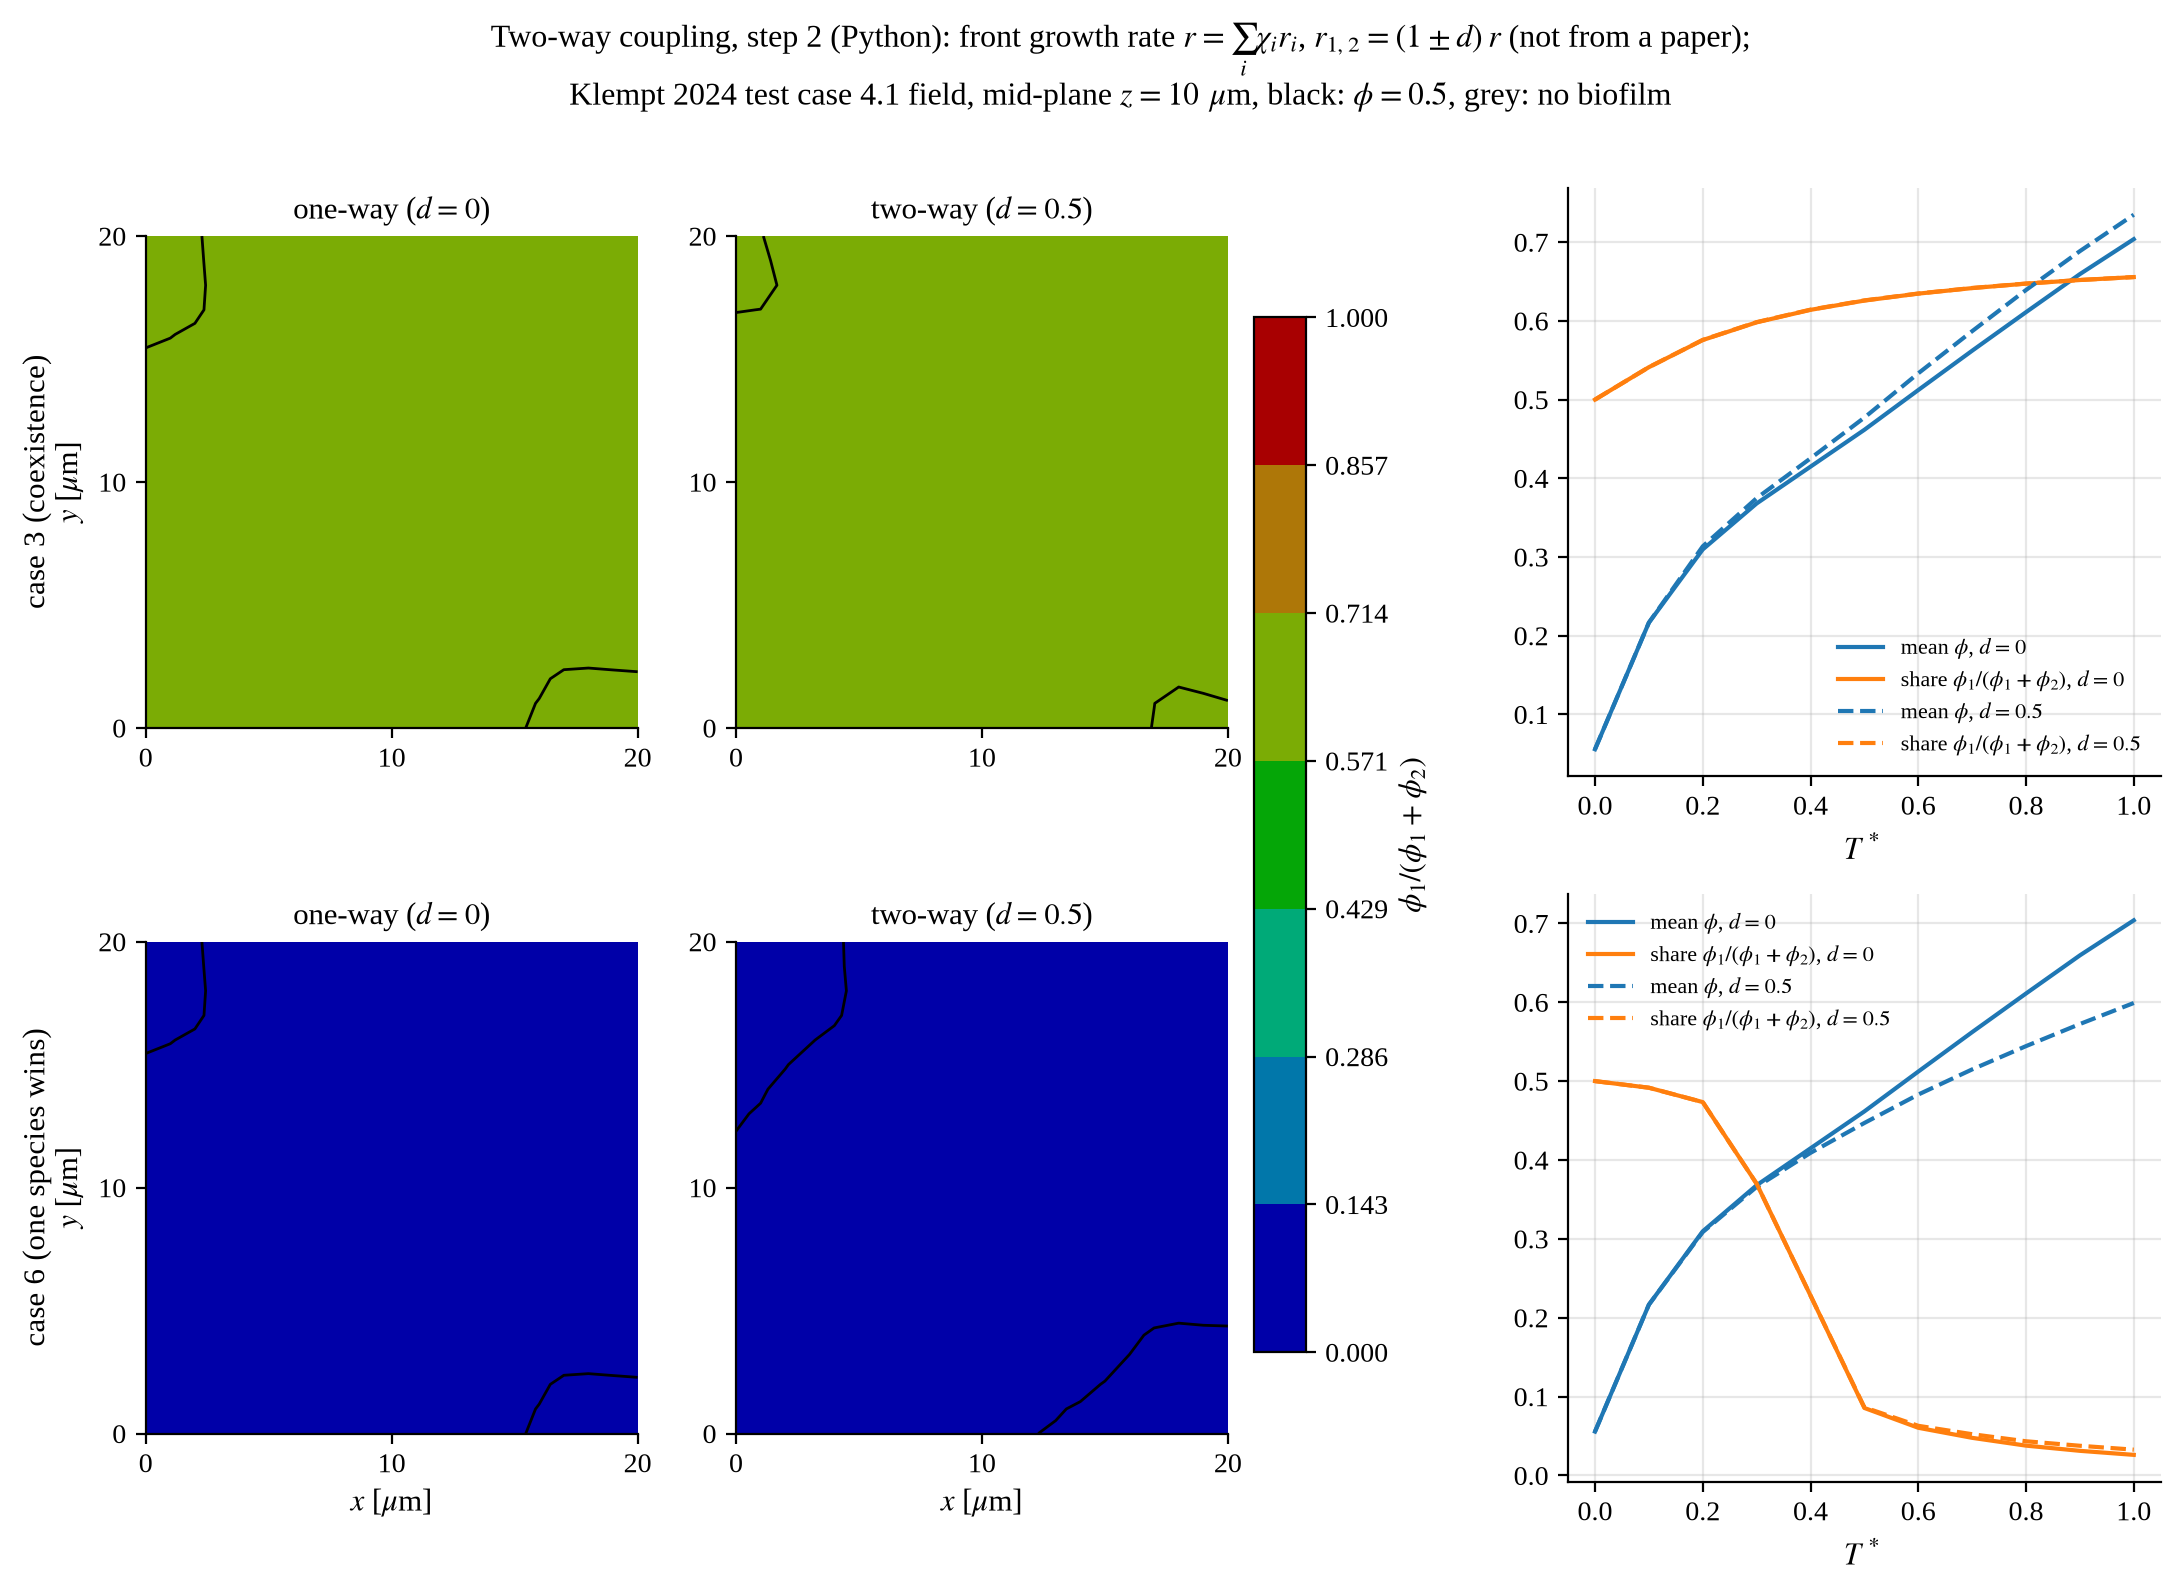
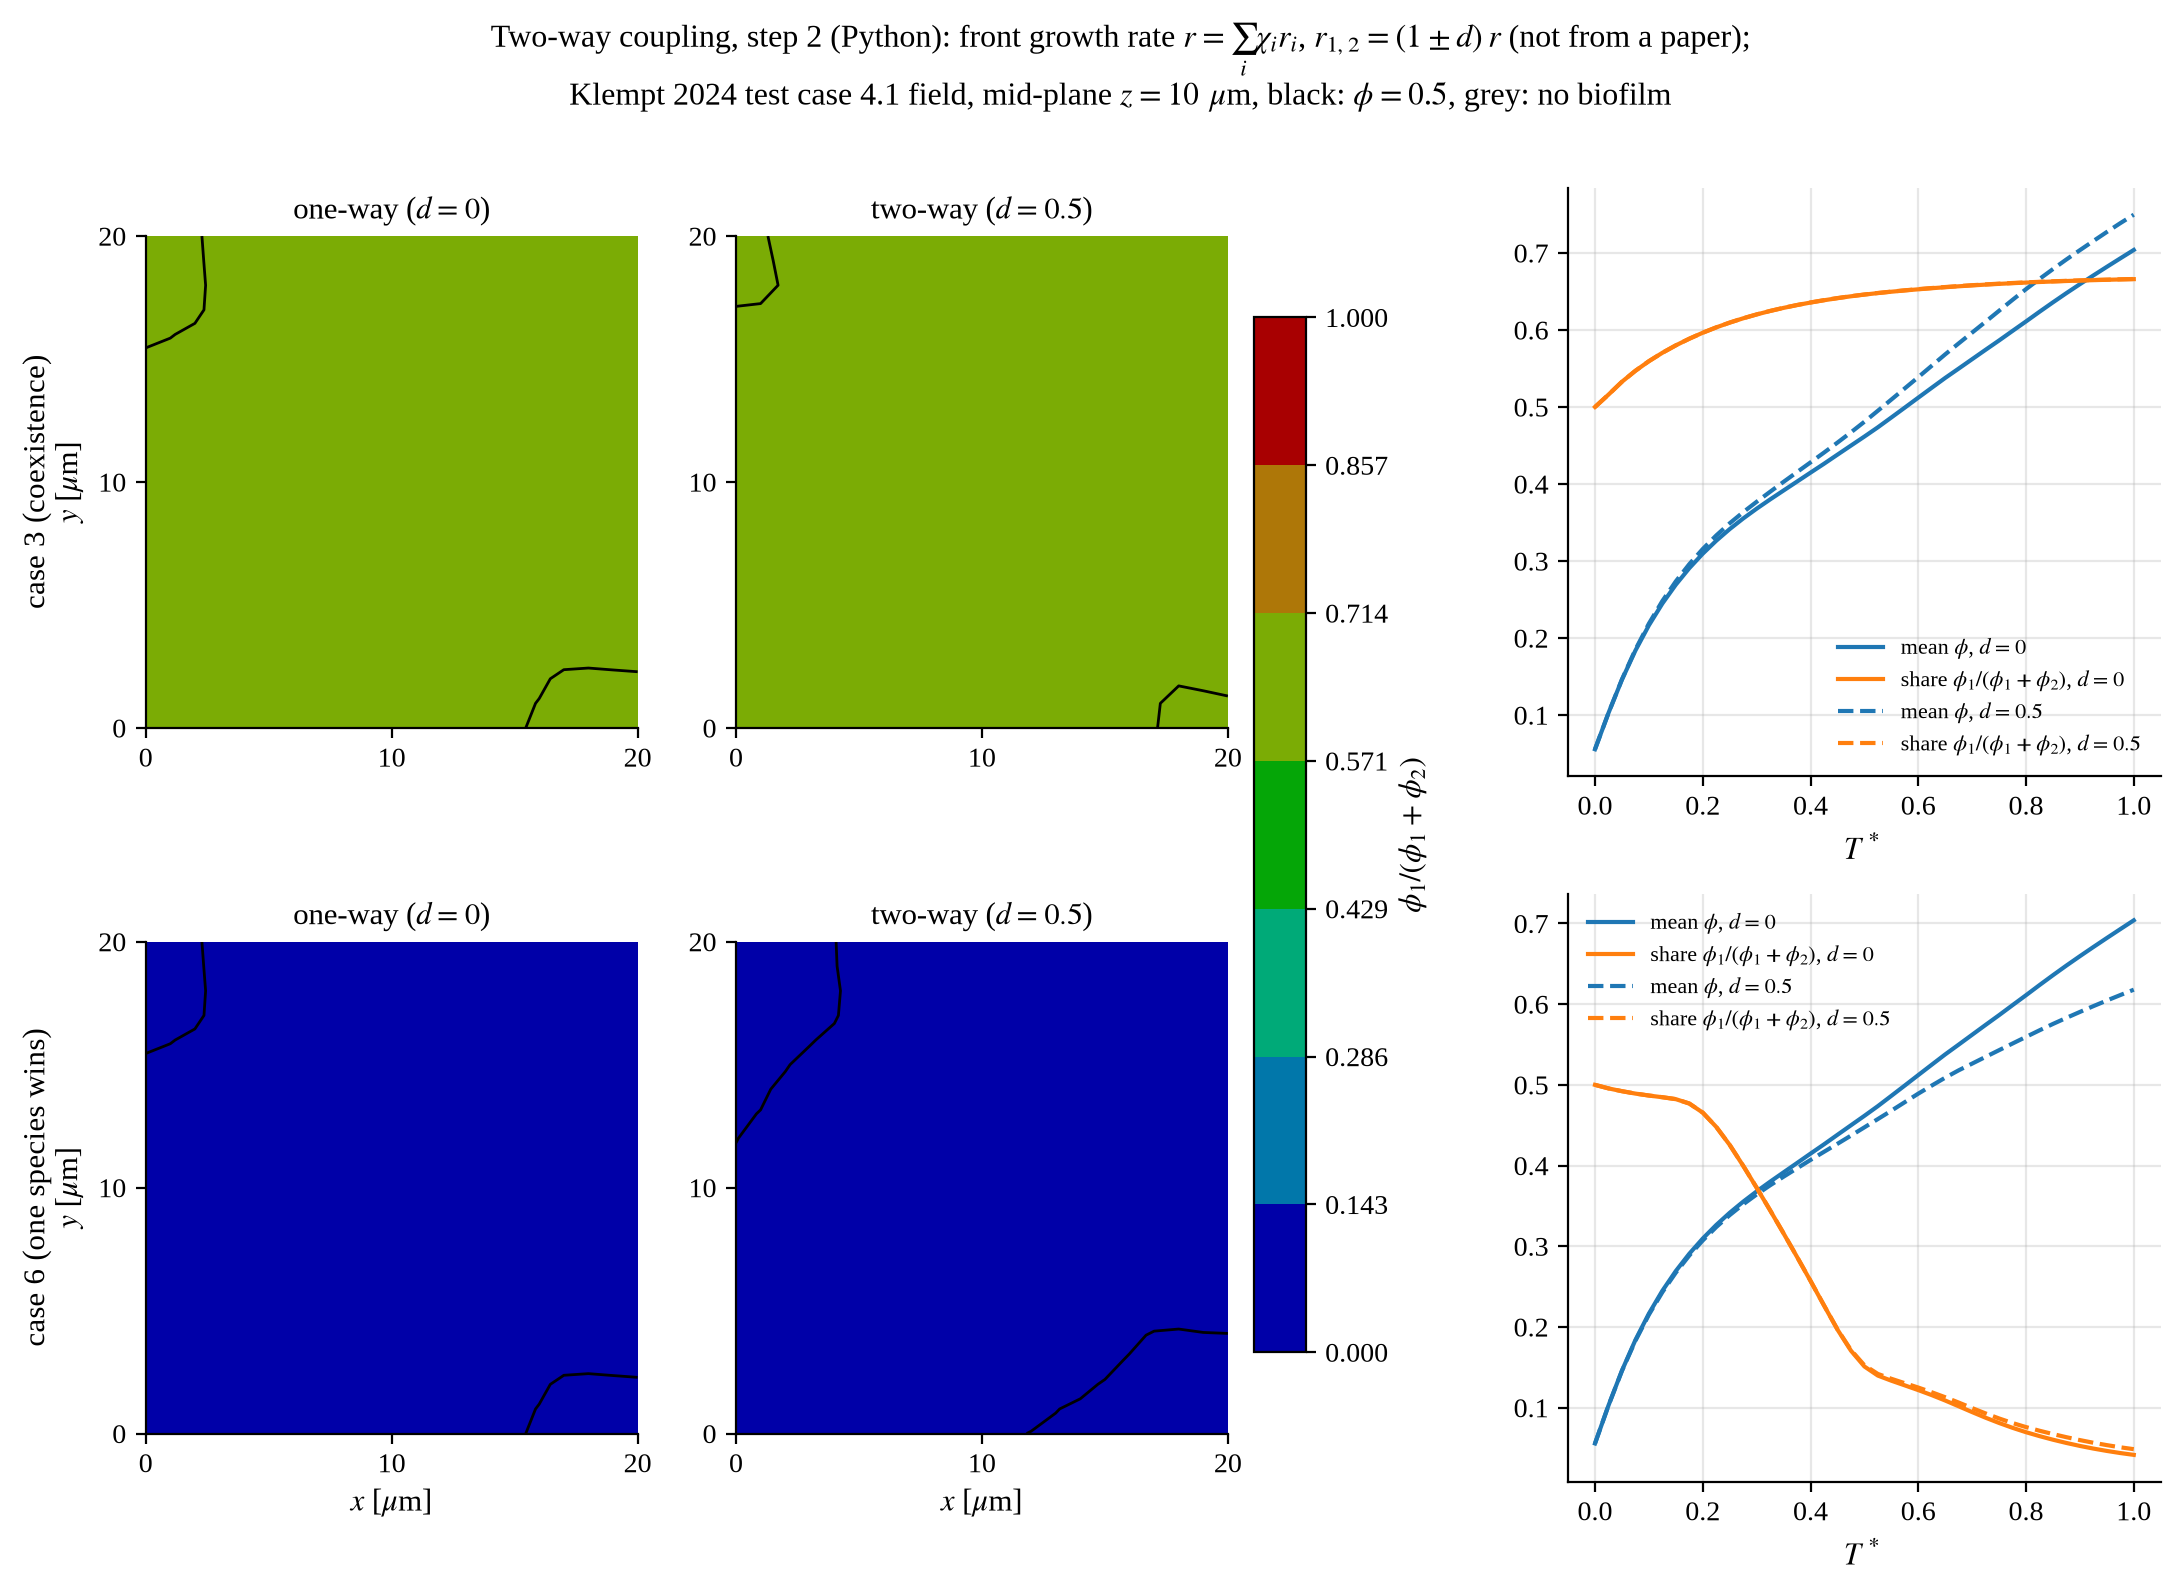
Two-way step 2: converged in the coupling step (case 3 mean phi 0.704 -> 0.750, case 6 0.704 -> 0.618)

diff --git a/ansys_usermat/two_way_step2.py b/ansys_usermat/two_way_step2.py
@@ -21,10 +21,15 @@ With d = 0 the field is the one-way field (r unchanged, up to round-off).
 
     python ansys_usermat/two_way_step2.py -> assets/fig_two_way_step2.png
 
-Result (4 Oct 2026), T* = 1, d = 0.5 (species 1 grows 3x as fast as species 2):
-  case 3: mean phi 0.704 -> 0.735, biomass-weighted share 0.656 -> 0.656
-  case 6: mean phi 0.704 -> 0.599, share 0.026 -> 0.033
-  largest pointwise change of phi: 0.47 (case 3), 0.63 (case 6)
+Result (4 Oct 2026), T* = 1, d = 0.5 (species 1 grows 3x as fast as species 2),
+mean phi one-way -> two-way and biomass-weighted share phi_1/(phi_1+phi_2):
+  coupling step   case 3                   case 6
+  0.1             0.704 -> 0.735 (0.656)   0.704 -> 0.599 (0.026 -> 0.033)
+  0.05            0.704 -> 0.749 (0.663)   0.704 -> 0.611 (0.034 -> 0.042)
+  0.025           0.704 -> 0.750 (0.666)   0.704 -> 0.618 (0.041 -> 0.049)
+The figure is made with 0.025 (python ansys_usermat/two_way_step2.py --dt 0.025);
+the mean phi changes by less than 0.01 from 0.05 to 0.025. Largest pointwise
+change of phi at 0.025: 0.41 (case 3), 0.55 (case 6).
 Which species wins now decides how fast the biofilm spreads: in case 3 the
 faster species is the majority and the front moves faster; in case 6 the
 slower species takes over and the front falls behind. The composition itself

diff --git a/ROADMAP_TWO_WAY.md b/ROADMAP_TWO_WAY.md
@@ -71,9 +71,10 @@ with a consumption strong enough for c to drop across the seed.
 - **Step 2, composition -> spreading** (`ansys_usermat/two_way_step2.py`, on the
   reproduced Klempt 2024 test case 4.1 field): front growth rate
   r = sum chi_i r_i with r_1 = 1.5 r, r_2 = 0.5 r (not from a paper). At T* = 1
-  the mean phi goes from 0.704 to 0.735 in case 3 (the faster species is the
-  majority) and to 0.599 in case 6 (the slower species takes over); phi changes
-  by up to 0.47 / 0.63 locally, the composition hardly at all. The feedback is
+  the mean phi goes from 0.704 to 0.750 in case 3 (the faster species is the
+  majority) and to 0.618 in case 6 (the slower species takes over); phi changes
+  by up to 0.41 / 0.55 locally, the composition hardly at all. Converged in the
+  coupling step (0.1 / 0.05 / 0.025: case 6 0.599 / 0.611 / 0.618). The feedback is
   real and large; in ANSYS it needs the element's front term.
 
 ## Checks to carry over
